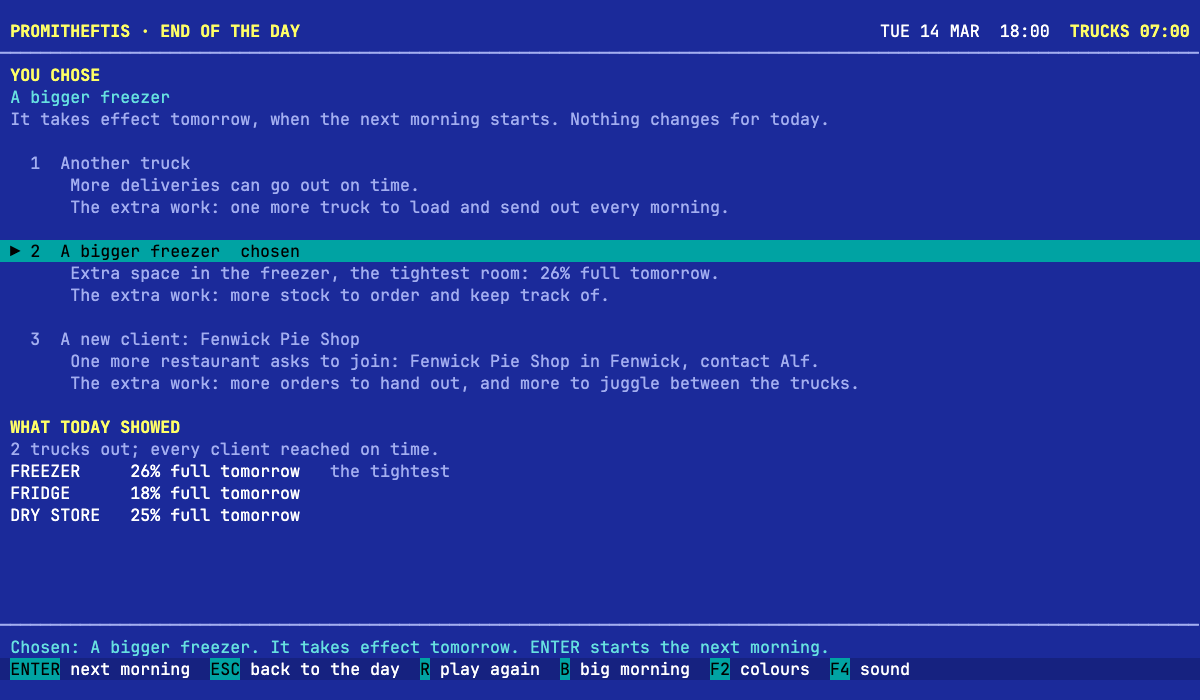
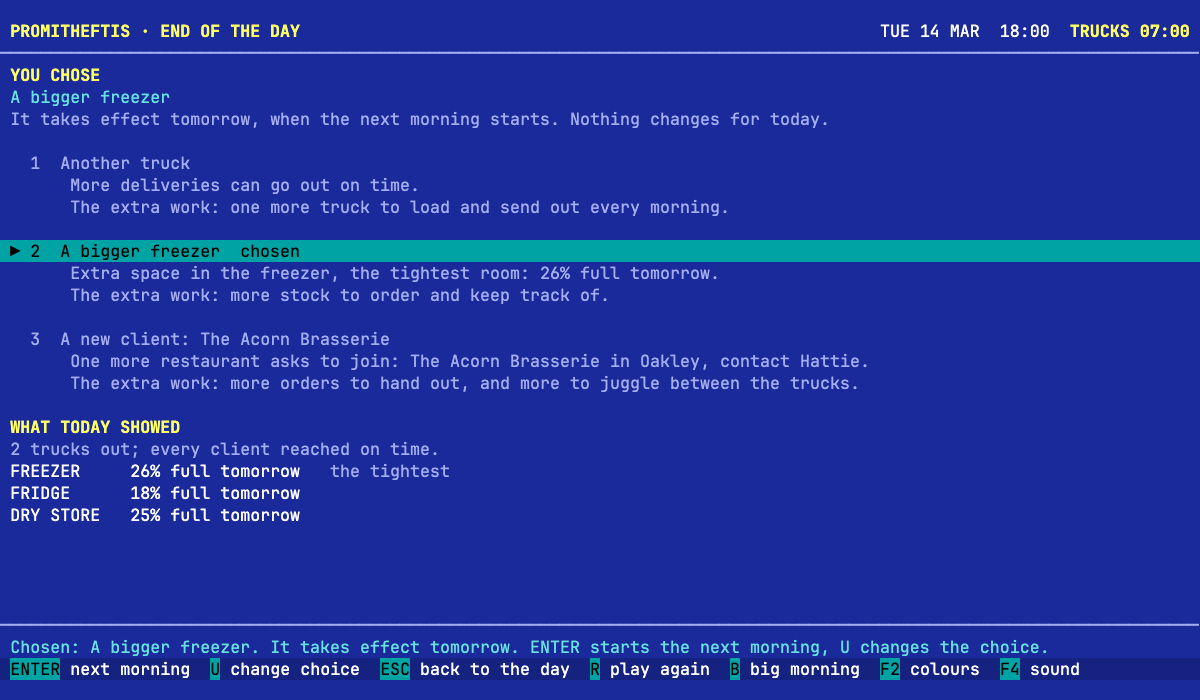
feat(ui): let the end-of-day growth choice be taken back until the next morning starts (#19)
* feat(ui): let the end-of-day growth choice be taken back until the next morning starts

* no-mistakes(document): Document growth-choice undo keys in README key table

Changed region(s): [[0.1542, 0.9, 0.8942, 0.99], [0.3392, 0.51, 0.7092, 0.54], [0.1542, 0.48, 0.3392, 0.51]]

diff --git a/tests/growth.test.ts b/tests/growth.test.ts
@@ -157,7 +157,7 @@ describe('choosing what to grow', () => {
     expect(app.growth).toBeNull();
   });
 
-  it('records the choice as plain state when ENTER confirms, and the pick can no longer be changed', () => {
+  it('records the choice as plain state when ENTER confirms, and the arrows and numbers leave it alone', () => {
     const { app, press } = toDay(0, 'small', ['9', '9', '9']);
     press('Enter', '2', 'Enter');
     expect(app.growth).toEqual({ kind: 'room', room: tightestRoom(app.day!.rooms).kept });
@@ -244,6 +244,60 @@ describe('choosing what to grow', () => {
     const again = toDay();
     expect(again.app.growth).toBeNull();
     expect(again.app.growthOpen).toBe(false);
+  });
+});
+
+describe('changing the choice before the next morning', () => {
+  it.each(['u', 'U', 'Backspace'])('%s takes a confirmed choice back to the three options with nothing chosen', (key) => {
+    const { app, press } = toDay();
+    press('Enter', '2', 'Enter');
+    expect(app.growth).not.toBeNull();
+    press(key);
+    expect(app.growth).toBeNull();
+    expect(app.growthOpen).toBe(true);
+    expect(app.screen).toBe('day');
+    expect(screen(app).join('\n')).toContain('WHAT TO GROW');
+  });
+
+  it('lets a different option, or the same one, be confirmed after taking it back', () => {
+    const { app, press } = toDay();
+    press('Enter', '1', 'Enter', 'u', '3', 'Enter');
+    expect(app.growth?.kind).toBe('client');
+    press('Backspace', 'Enter');
+    expect(app.growth?.kind).toBe('client');
+    press('u', '1', 'Enter');
+    expect(app.growth).toEqual({ kind: 'truck' });
+  });
+
+  it('does nothing when nothing is chosen yet, and the key bar offers it only once chosen', () => {
+    const cues: string[] = [];
+    const { app, press } = toDay(0, 'small', ['a'], cues);
+    press('Enter');
+    cues.length = 0;
+    press('u', 'Backspace');
+    expect(cues).toEqual([]);
+    expect(screen(app).join('\n')).not.toContain('change choice');
+    press('Enter');
+    expect(screen(app).join('\n')).toContain('U change choice');
+    press('u');
+    expect(cues).toEqual(['finish', 'confirm']);
+  });
+
+  it('puts the last choice to work when the next morning starts', () => {
+    const { app, press } = toDay();
+    const trucks = app.morning.trucks.length;
+    press('Enter', '2', 'Enter', 'u', '1', 'Enter', 'Enter');
+    expect(app.screen).toBe('messages');
+    expect(app.run.day).toBe(2);
+    expect(app.morning.trucks.length).toBe(trucks + 1);
+  });
+
+  it('keeps the same new client across taking back and choosing again', () => {
+    const { app, press } = toDay(0, 'small', ['a'], [], sequence(0.3, 0.9));
+    const before = (app.growthOptions[2]!.growth as { client: NewClient }).client;
+    press('Enter', '3', 'Enter', 'u', '1', 'Enter', 'u', '3', 'Enter');
+    expect(app.growth).toEqual({ kind: 'client', client: before });
+    expect(app.growthOptions[2]!.growth).toEqual({ kind: 'client', client: before });
   });
 });
 

diff --git a/src/ui/app.ts b/src/ui/app.ts
@@ -846,7 +846,7 @@ export class App {
     return true;
   }
 
-  /** The growth choice: pick with ↑↓ or 1-3, ENTER confirms. Once confirmed it cannot be changed. */
+  /** The growth choice: pick with ↑↓ or 1-3, ENTER confirms, and U or BACKSPACE takes a confirmed choice back so another can be picked. It is final once the next morning starts. */
   private growthKey(key: string): boolean {
     const options = this.growthOptions;
     const before = this.growthSel;
@@ -867,6 +867,13 @@ export class App {
         this.say(`Chosen: ${picked.title}. It takes effect tomorrow. ENTER starts the next morning.`);
         this.sound('finish');
       }
+      return true;
+    }
+    if (key === 'u' || key === 'U' || key === 'Backspace') {
+      if (!this.growth) return false;
+      this.growth = null;
+      this.say('Choice taken back. Pick one of the three.');
+      this.sound('confirm');
       return true;
     }
     const number = /^[1-9]$/.test(key) && Number(key) <= options.length ? Number(key) - 1 : -1;

diff --git a/src/ui/screens/growth.ts b/src/ui/screens/growth.ts
@@ -55,12 +55,12 @@ export function growthScreen(app: App): Line[] {
       ];
   const body: Line[] = [...intro, [], ...optionRows(app, options), ...todayRows(app)];
   const keys = chosen
-    ? ([['ENTER', 'next morning'], ['ESC', 'back to the day']] as const)
+    ? ([['ENTER', 'next morning'], ['U', 'change choice'], ['ESC', 'back to the day']] as const)
     : ([['↑↓ 1-3', 'pick one'], ['ENTER', 'choose it'], ['ESC', 'back to the day']] as const);
   const status = app.status
     ? s(` ${app.status}`, app.tone === 'warn' ? 'w' : 'acc')
     : chosen
-      ? s(` Chosen: ${chosen.title}. It takes effect tomorrow. ENTER starts the next morning.`, 'acc')
+      ? s(` Chosen: ${chosen.title}. It takes effect tomorrow. ENTER starts the next morning, U changes the choice.`, 'acc')
       : [];
   return layout(top, body, [rule(), status, keyBar([...keys, ['R', 'play again'], ...otherMornings(app), ['F2', 'colours'], ['F4', 'sound']])]);
 }

diff --git a/README.md b/README.md
@@ -15,7 +15,7 @@ After the end of the day, the next morning follows, and the one after that: see 
 
 It has seven screens, and a short choice at the end of the last one: the overnight messages, the order desk, the truck sheets, the road, a short result screen (when each truck is back, what share of each order was delivered, who got less), the supplier order and the end of the day. On the road the clock runs on from 07:00 and a log fills in as each truck leaves, delivers (with a gentle note when a client got less) and comes back, until every truck is home. Now and then a client rings while the trucks are out (two or three calls in the small morning, a few more in the big one): the log waits, a call box shows who it is and what they say, and you pick a friendly answer with **↑ ↓** and **ENTER**: add it to tomorrow's order, sorry not today, or the time the truck really reaches them. The answers are listed on the result screen, with how many were promised for tomorrow (e.g. "added 4 to tomorrow"); they do not change today's deliveries, but a promise for tomorrow shows up on the next day's order. From the result, **ENTER** goes to the 13:00 supplier order: every item, grouped by where it is kept (freezer, fridge, dry store), with what is on hand after today's deliveries, the usual daily amount and the amount to order for tomorrow. Items a client rang about are drawn in amber, and the note (who rang) shows below the room bars while that row is highlighted. Each room has a bar on the right showing how full it will be tomorrow, with its per cent: █ the stock in the room now, ▓ what is ordered for it and ░ the space left. The bars change as amounts are typed, nudged or filled, so you see before placing the order whether it fits. A room that would be over full gets a bar at full, its per cent and an amber line (e.g. "FREEZER over by 12%"), but the order can still be placed. Placing the order with **F9** ends the day: the 18:00 end-of-day screen wraps it up on one screen. On the left, every client with how much of their order arrived, when the truck reached them, a note when it came after the time they asked for, and their mood; the highlighted client's story shows below it (what was short and why they feel as they do). On the right: each truck and when it got back (with how many clients it reached late), the phone calls with what was answered and promised, and tomorrow's order with how full each store room will be, with an amber warning for a room that is over full. A client is pleased when everything came on time; they are a bit let down, or let down, when less arrived, the truck was late, or they rang about a short delivery and were told nothing more today, and a promise of the rest tomorrow softens that. A client's mood goes with them into the next morning, where it gently changes their order.
 
-From the end of the day, **ENTER** opens one last choice, on the same screen: what to grow. Pick one of three with **↑ ↓** or **1**–**3**, and confirm it with **ENTER**: another truck (more deliveries can go out on time), a bigger room (the freezer, the fridge or the dry store, whichever is the fullest tomorrow, named in the option) or a new client (a restaurant asks to join: one picked at random from a short list, on any of the nine squares and never a client you already have, so it differs from game to game; it is named on the screen). There is no money yet, so each is free; the price is the extra work it brings. Once confirmed, the choice is shown with a note that it takes effect tomorrow, and it cannot be changed. Nothing about today changes. **ENTER** then starts the next morning (the key bar says "next morning"), where the choice takes effect.
+From the end of the day, **ENTER** opens one last choice, on the same screen: what to grow. Pick one of three with **↑ ↓** or **1**–**3**, and confirm it with **ENTER**: another truck (more deliveries can go out on time), a bigger room (the freezer, the fridge or the dry store, whichever is the fullest tomorrow, named in the option) or a new client (a restaurant asks to join: one picked at random from a short list, on any of the nine squares and never a client you already have, so it differs from game to game; it is named on the screen). There is no money yet, so each is free; the price is the extra work it brings. Once confirmed, the choice is shown with a note that it takes effect tomorrow. Until you go on, **U** (or **BACKSPACE**, the key bar says "change choice") takes it back and shows the three options again with nothing chosen, so you can pick another or the same one again; a new client on offer stays the same all evening. Once the next morning starts the choice is final. Nothing about today changes. **ENTER** then starts the next morning (the key bar says "next morning"), where the choice takes effect.
 
 ### The next morning
 
@@ -103,7 +103,7 @@ Keys that work everywhere: **F2** switches between soft green and office blue, *
 | Result | **↑ ↓** look through the orders · **ENTER** supplier order · **R** play this day again · **B** / **S** load a morning |
 | Supplier order | **↑ ↓** pick an item · type a number or **← →** (one less / one more) · **ENTER** confirm the row and go to the next · **U** fill the row up to the usual amount · **A** fill every row (both leave a row that already has an amount alone) · the room bars update as you go · **F9** place the order and go to the end of the day · **ESC** back to the result |
 | End of the day | **↑ ↓** look through the clients (**PgUp** / **PgDn** ten at a time) · **ENTER** choose what to grow · **R** play this day again · **B** / **S** load a morning |
-| What to grow | **↑ ↓** or **1**–**3** pick one of the three · **ENTER** choose it (final), then **ENTER** again for the next morning · **ESC** back to the day · **R** play this day again · **B** / **S** load a morning |
+| What to grow | **↑ ↓** or **1**–**3** pick one of the three · **ENTER** choose it, then **ENTER** again for the next morning (the choice is final from then on) · **U** or **BACKSPACE** take the choice back · **ESC** back to the day · **R** play this day again · **B** / **S** load a morning |
 
 ### How the desk plays
 
